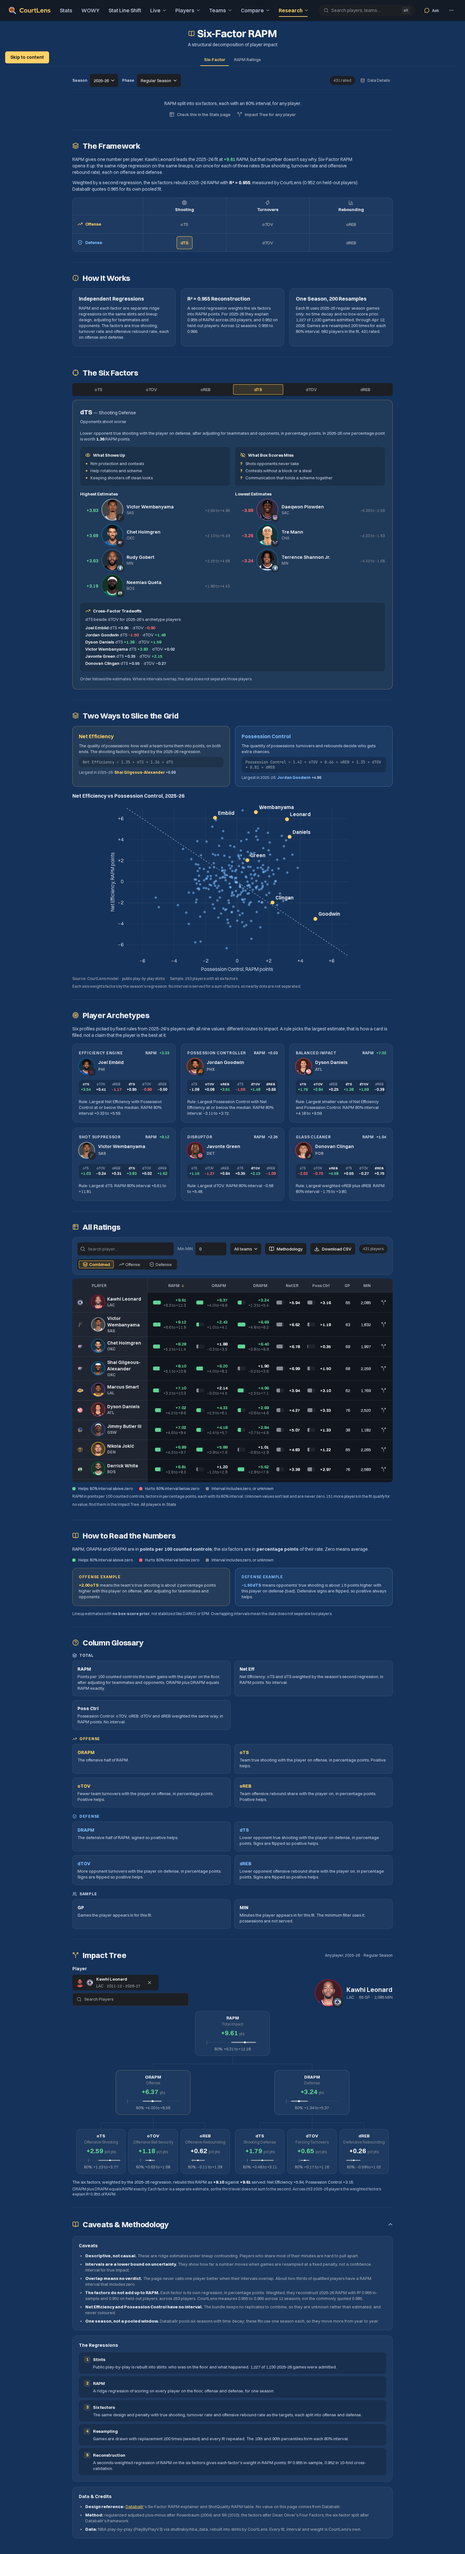
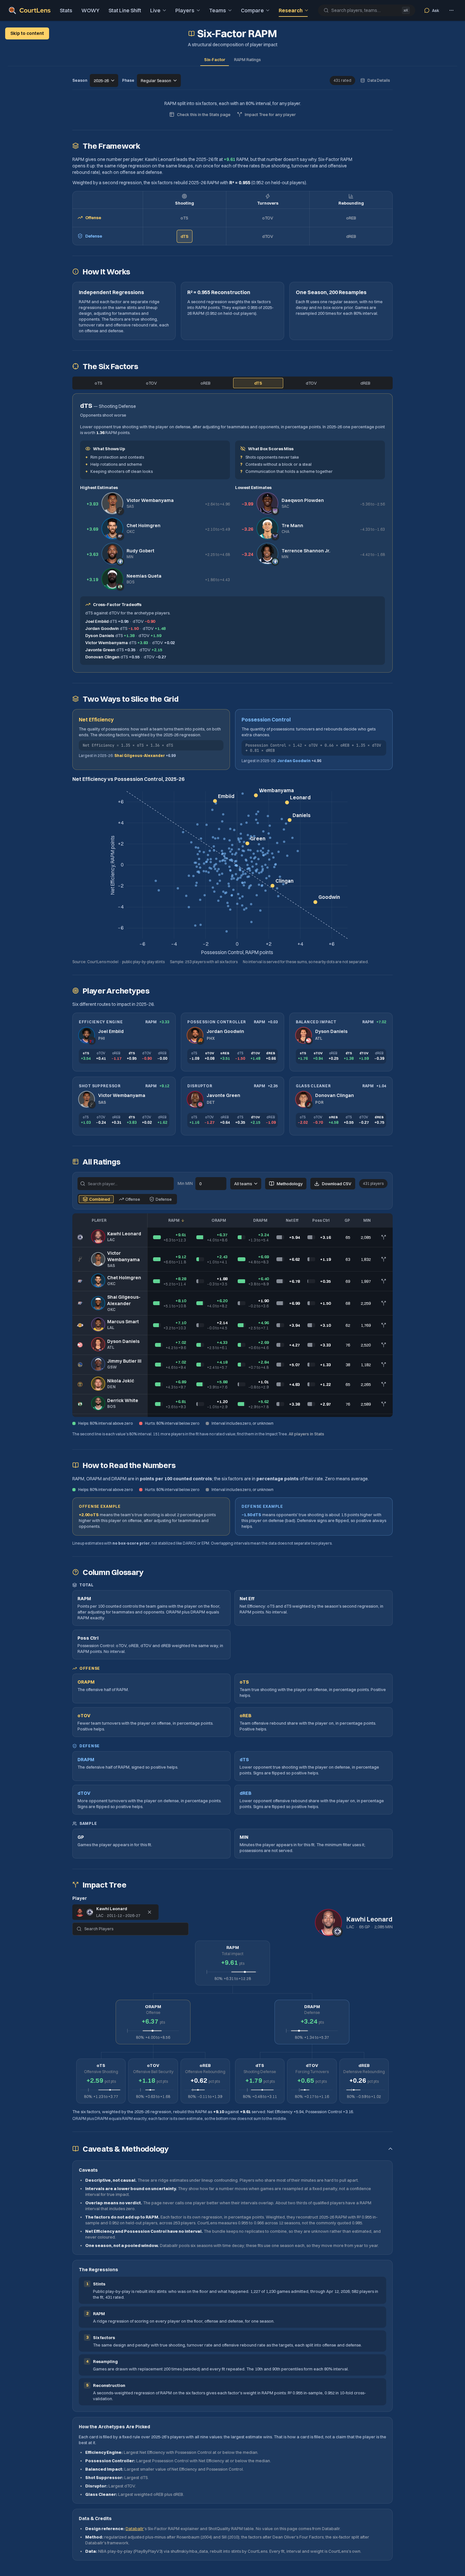
feat(design): RD00 round 5, less caption text on Six-Factor RAPM
Owner (2026-11-06): remove caption text that is non-essential or takes away
from the point, e.g. the archetype "Rule:" lines.

- Cut or shortened: archetype rule/interval lines and intro, How It Works
  counts, framework Databallr aside, overlap note, scatter note, table and
  tree footnotes, tree scope aside, ratings chart note and fact filler.
- Moved: archetype rules to "How the Archetypes Are Picked" in Caveats &
  Methodology; coverage and player counts to the Stints step.
- Kept: confounding, unknown, overlap and no-interval statements, units,
  examples, caveats, sources, credits.
- Baselines pc12-b-rapm and pc11-six-factor-phone regenerated.

Real data 87,162 + 1,170 values, 0 mismatches; full Playwright 582 passed,
0 failed. Design only: no API or data change.

diff --git a/dashboard/components/six-factor-research.tsx b/dashboard/components/six-factor-research.tsx
@@ -72,13 +72,11 @@ function HowItWorks({ page }: { page: SixFactorPage }) {
     </ResearchCard>
     <ResearchCard title={fit ? `R² = ${r2(fit.in_sample.value)} Reconstruction` : "Reconstruction"}>
       <p className="rs-card-text">{fit
-        ? <>A second regression weights the six factors into RAPM points. For {page.season} they explain {r2(fit.in_sample.value)} of RAPM across {count(fit.players)} players, and {r2(fit.cross_validated.value)} on held-out players. Across {fit.seasons} seasons: {r2(fit.range_in_sample[0])} to {r2(fit.range_in_sample[1])}.</>
+        ? <>A second regression weights the six factors into RAPM points. They explain {r2(fit.in_sample.value)} of {page.season} RAPM ({r2(fit.cross_validated.value)} on held-out players).</>
         : "The second regression is registered for regular seasons only, so the weights and R² are unknown here."}</p>
     </ResearchCard>
     <ResearchCard title={page.intervals_available ? "One Season, 200 Resamples" : "One Season, No Intervals"}>
-      <p className="rs-card-text">Each fit uses {page.season} {phaseLabel(page.phase).toLowerCase()} games only: no time decay and no box-score prior. {page.coverage ? `${count(page.coverage.admitted_games)} of ${count(page.coverage.scheduled_games)} games admitted, through ${formatDate(page.provenance.last_included_date)}. ` : `Games through ${formatDate(page.provenance.last_included_date)}. `}
-        {page.intervals_available ? "Games are resampled 200 times for each 80% interval. " : "No resampling is registered for playoff fits, so intervals are unknown. "}
-        {count(page.fit_players)} players in the fit, {count(page.players.length)} rated.</p>
+      <p className="rs-card-text">Each fit uses one {phaseLabel(page.phase).toLowerCase()}, with no time decay and no box-score prior. {page.intervals_available ? "Games are resampled 200 times for each 80% interval." : "No resampling is registered for playoff fits, so intervals are unknown."}</p>
     </ResearchCard>
   </ResearchCards>;
 }
@@ -110,12 +108,11 @@ function FactorPanel({ factor, page, byId, treeHref }: { factor: FactorKey; page
       <RankedList title="Lowest Estimates" label={`${meta.label}, three lowest estimates with 80% intervals`} items={known.slice(-3).reverse().map(item)} />
     </div>
     {archetypePlayers.length > 0 && <ResearchCallout icon="trend" title="Cross-Factor Tradeoffs">
-      <p className="rs-card-text">{meta.short} beside {pair.short} for {page.season}&apos;s archetype players:</p>
+      <p className="rs-card-text">{meta.short} against {pair.short} for the archetype players.</p>
       <ul className="sf-tradeoffs" aria-label={`${meta.short} beside ${pair.short}`}>
         {archetypePlayers.map(player => <li key={player.player_id}><strong>{player.player_name}</strong> {meta.short} <NodeValue node={player.metrics[factor]} /> · {pair.short} <NodeValue node={player.metrics[copy.pair]} /></li>)}
       </ul>
     </ResearchCallout>}
-    <p className="rs-note">Order follows the estimates. Where intervals overlap, the data does not separate those players.</p>
   </div>;
 }
 
@@ -151,7 +148,7 @@ function CompositeScatter({ players, season, highlighted }: { players: SixFactor
   const y = (value: number) => bottom - (value - low) / (high - low) * (bottom - top);
   const ticks = Array.from({ length: high - low + 1 }, (_, i) => low + i).filter(value => value % 2 === 0);
   return <ChartFrame title={`Net Efficiency vs Possession Control, ${season}`} source="CourtLens model · public play-by-play stints" sample={`${points.length} players with all six factors`}
-    note="Each axis weights factors by the season's regression. No interval is served for a sum of factors, so nearby dots are not separated.">
+    note="No interval is served for these sums, so nearby dots are not separated.">
     <ChartData fingerprint={`${season}-${points.length}`}>
       <svg className="sf-scatter chart-graphic" viewBox="0 0 640 440" role="img" aria-label={`Scatter of ${points.length} players: Possession Control across, Net Efficiency up. Labelled: ${[...highlighted.values()].join(", ")}.`}>
         {ticks.map(value => <g key={value}>
@@ -181,7 +178,6 @@ function ArchetypeCards({ page, byId, treeHref }: { page: SixFactorPage; byId: M
       aside={<span className="sf-archetype-rapm">RAPM <NodeValue node={player.metrics.rapm} /></span>}
       title={<PlayerIdentity playerId={player.player_id} name={player.player_name} team={player.team} era={seasonEra(page.season, player.team)} size="md" href={treeHref(player.player_id)} />}>
       <dl className="sf-strip">{FACTORS.map(item => <div key={item.key} data-picked={card.factors.includes(item.key) || undefined}><dt title={item.label}>{item.short}</dt><dd><NodeValue node={player.metrics[item.key]} /></dd></div>)}</dl>
-      <p className="rs-card-text">Rule: {card.rule}. RAPM 80% interval {intervalText(player.metrics.rapm)}.</p>
     </ResearchCard>;
   })}</ResearchCards>;
 }
@@ -283,14 +279,14 @@ export function ImpactTree({ tree, reconstruction }: { tree: ImpactTreeData; rec
       {rebuilt != null && tree.metrics.rapm.value != null
         ? <p>The six factors, weighted by the {tree.season} regression, rebuild this RAPM as <strong>{signed(rebuilt)}</strong> against <strong>{signed(tree.metrics.rapm.value)}</strong> served: Net Efficiency {signed(efficiency)}, Possession Control {signed(possession)}.</p>
         : <p>Rebuilding RAPM from the factors is unknown here: it needs {reconstruction ? "RAPM and all six factors for this player" : "regression weights, which are registered for regular seasons only"}.</p>}
-      <p className="rs-note">ORAPM plus DRAPM equals RAPM exactly. Each factor is a separate estimate, so the third level does not sum to the second.{reconstruction ? ` Across ${reconstruction.players} ${tree.season} players the weighted factors explain R² ${r2(reconstruction.in_sample.value)} of RAPM.` : ""}</p>
+      <p className="rs-note">ORAPM plus DRAPM equals RAPM exactly; each factor is its own estimate, so the bottom row does not sum to the middle.</p>
     </div>
   </div>;
 }
 
 function TreeSection({ page, playerId, onPlayer }: { page: SixFactorPage; playerId: string; onPlayer: (id: string | null) => void }) {
   const { data, error, loading, retry } = useFeed([playerId, page.season, page.phase], signal => getImpactTree(playerId, page.season, page.phase, signal));
-  return <ResearchSection id="impact-tree" icon="split" title="Impact Tree" aside={<span className="rs-note">Any player, {page.season} · {phaseLabel(page.phase)}</span>}>
+  return <ResearchSection id="impact-tree" icon="split" title="Impact Tree">
     <div className="sf-tree-head">
       <div className="sf-tree-picker"><EntityField label="Player" value={playerId} season={page.season} phase={page.phase} initialName={data?.player_name} onChange={value => onPlayer(value || null)} /></div>
       {data && <PlayerIdentity playerId={data.player_id} name={data.player_name} team={data.team} era={seasonEra(page.season, data.team)} size="lg" href={`/players/${data.player_id}?season=${page.season}`}
@@ -334,7 +330,7 @@ function Body({ page, factor, playerId, treeHref, statsHref, set }: { page: SixF
     <ResearchSection icon="layers" title="The Framework">
       <ResearchProse>
         <p>RAPM gives one number per player. {leader && leader.metrics.rapm.value != null ? <>{leader.player_name} leads the {page.season}{page.phase === "playoffs" ? " playoffs" : ""} fit at <NodeValue node={leader.metrics.rapm} /> RAPM, but that number doesn&apos;t say why. </> : null}Six-Factor RAPM opens it up: the same ridge regression on the same lineups, run once for each of three rates (true shooting, turnover rate and offensive rebound rate), each on offense and defense.</p>
-        <p>{fit ? <>Weighted by a second regression, the six factors rebuild {page.season} RAPM with <strong className="sf-r2">R² = {r2(fit.in_sample.value)}</strong>, measured by CourtLens ({r2(fit.cross_validated.value)} on held-out players). Databallr quotes 0.985 for its own pooled fit.</> : "No reconstruction is registered for playoff fits, so how far the factors rebuild RAPM is unknown here."}</p>
+        <p>{fit ? <>Weighted by a second regression, the six factors rebuild {page.season} RAPM with <strong className="sf-r2">R² = {r2(fit.in_sample.value)}</strong> ({r2(fit.cross_validated.value)} on held-out players).</> : "No reconstruction is registered for playoff fits, so how far the factors rebuild RAPM is unknown here."}</p>
       </ResearchProse>
       <FrameworkGrid factor={factor} onFactor={onFactor} />
     </ResearchSection>
@@ -353,7 +349,7 @@ function Body({ page, factor, playerId, treeHref, statsHref, set }: { page: SixF
     </ResearchSection>
 
     <ResearchSection icon="target" title="Player Archetypes">
-      <p className="rs-prose-line">Six profiles picked by fixed rules from {page.season}&apos;s players with all nine values: different routes to impact. A rule picks the largest estimate; that is how a card is filled, not a claim that the player is the best at it.</p>
+      <p className="rs-prose-line">Six different routes to impact in {page.season}.</p>
       <ArchetypeCards page={page} byId={byId} treeHref={treeHref} />
     </ResearchSection>
 
@@ -365,7 +361,7 @@ function Body({ page, factor, playerId, treeHref, statsHref, set }: { page: SixF
         csv={{ filename: `courtlens-six-factor-${page.season}-${page.phase}.csv`, columns: csvColumns }}
         actions={<ButtonLink size="md" icon="book" href="#methodology">Methodology</ButtonLink>}
         rowAction={p => <IconButtonLink size="sm" icon="split" label={`Open ${p.player_name}'s Impact Tree`} href={treeHref(p.player_id)} />}
-        footnote={<>RAPM in points per 100 counted controls, factors in percentage points, each with its 80% interval. Unknown values sort last and are never zero. {count(page.fit_players - players.length)} more players in the fit qualify for no value; find them in the Impact Tree. <ButtonLink size="sm" variant="text" href={statsHref}>All players in Stats</ButtonLink></>} />
+        footnote={<>The second line is each value&apos;s 80% interval. {count(page.fit_players - players.length)} more players in the fit have no rated value; find them in the Impact Tree. <ButtonLink size="sm" variant="text" href={statsHref}>All players in Stats</ButtonLink></>} />
     </ResearchSection>
 
     <ResearchSection icon="book" title="How to Read the Numbers">
@@ -384,13 +380,17 @@ function Body({ page, factor, playerId, treeHref, statsHref, set }: { page: SixF
       <MethodBlock title="Caveats"><Caveats page={page} /></MethodBlock>
       <MethodBlock title="The Regressions">
         <MethodSteps steps={[
-          { title: "Stints", text: <>Public play-by-play is rebuilt into stints: who was on the floor and what happened.{page.coverage ? ` ${count(page.coverage.admitted_games)} of ${count(page.coverage.scheduled_games)} ${page.season} games were admitted.` : ""}</> },
+          { title: "Stints", text: <>Public play-by-play is rebuilt into stints: who was on the floor and what happened. {page.coverage ? `${count(page.coverage.admitted_games)} of ${count(page.coverage.scheduled_games)} games admitted, through ${formatDate(page.provenance.last_included_date)}; ` : `Games through ${formatDate(page.provenance.last_included_date)}; `}{count(page.fit_players)} players in the fit, {count(page.players.length)} rated.</> },
           { title: "RAPM", text: "A ridge regression of scoring on every player on the floor, offense and defense, for one season." },
           { title: "Six factors", text: "The same design and penalty with true shooting, turnover rate and offensive rebound rate as the targets, each split into offense and defense." },
           { title: "Resampling", text: page.intervals_available ? "Games are drawn with replacement 200 times (seeded) and every fit repeated. The 10th and 90th percentiles form each 80% interval." : "No resampling is registered for playoff fits." },
           { title: "Reconstruction", text: fit ? `A seconds-weighted regression of RAPM on the six factors gives each factor's weight in RAPM points: R² ${r2(fit.in_sample.value)} in-sample, ${r2(fit.cross_validated.value)} in 10-fold cross-validation.` : "Registered for regular seasons only." },
         ]} />
       </MethodBlock>
+      {page.archetypes.length > 0 && <MethodBlock title="How the Archetypes Are Picked">
+        <p className="rs-card-text">Each card is filled by a fixed rule over {page.season}&apos;s players with all nine values: the largest estimate wins. That is how a card is filled, not a claim that the player is the best at it.</p>
+        <ul className="sf-caveats" aria-label="Archetype rules">{page.archetypes.map(card => <li key={card.key} data-archetype={card.key}><strong>{card.label}:</strong> {card.rule}.</li>)}</ul>
+      </MethodBlock>}
       <MethodBlock title="Data & Credits"><Credits /></MethodBlock>
     </ResearchDisclosure>
   </>;

diff --git a/dashboard/app/research/rapm/page.tsx b/dashboard/app/research/rapm/page.tsx
@@ -41,9 +41,9 @@ export default async function Page({ searchParams }: {
   ] : [];
   const facts = data?.status === "available" ? [
     { label: "Top 1Y RAPM", value: leader ? formatStatValue(leader.metrics.rapm, 2) : "—", note: leader?.player_name ?? "Unknown" },
-    { label: "Rated Players", value: data.total_players.toLocaleString("en-US"), note: "In the served impact cohort" },
-    { label: "Admitted Games", value: coverage ? `${coverage.admitted_games.toLocaleString("en-US")} / ${coverage.scheduled_games.toLocaleString("en-US")}` : "—", note: "Scheduled games in this scope" },
-    { label: "1Y Fit Through", value: fit ? formatDate(fit.last_included_date) : "—", note: fit ? fit.seasons.join(" / ") : "Unknown" },
+    { label: "Rated Players", value: data.total_players.toLocaleString("en-US") },
+    { label: "Admitted Games", value: coverage ? `${coverage.admitted_games.toLocaleString("en-US")} / ${coverage.scheduled_games.toLocaleString("en-US")}` : "—" },
+    { label: "1Y Fit Through", value: fit ? formatDate(fit.last_included_date) : "—" },
   ] : [];
   return <div className="rs-column rapm-ratings">
     <Suspense fallback={<div className="ui-filter-bar" aria-hidden="true" />}>
@@ -57,11 +57,11 @@ export default async function Page({ searchParams }: {
         {/* PC12: the headline chart leads on first load, labelled for assistive tech; open, not boxed (RD00). */}
         <section className="rapm-headline" aria-label="Headline result">
           <RankedBars title="Qualified 1Y RAPM leaders" source="CourtLens sealed IM04 lineup model" sample={`${data.total_players} served players · ${coverage?.admitted_games ?? "unknown"} admitted games`}
-            measure="points per 100 counted controls" tone="identity-b" note="Blue = 1Y RAPM; descriptive under lineup confounding. Intervals are on the Six-Factor tab."
+            measure="points per 100 counted controls" tone="identity-b"
             items={data.players.filter(p => p.metrics.rapm != null).slice(0, 5).map(p => ({ key: p.player_id, name: p.player_name, label: <PlayerIdentity playerId={p.player_id} name={p.player_name} team={teams[p.player_id] ?? null} era={seasonEra(season, teams[p.player_id])} href={`/players/${p.player_id}?${scope}`} size="sm" />, value: p.metrics.rapm!, formatted: formatStatValue(p.metrics.rapm, 2), detail: `${p.support.rapm?.games ?? "unknown"} games · ${p.support.rapm?.seconds == null ? "unknown" : Math.round(p.support.rapm.seconds / 60)} minutes` }))} />
         </section>
         <ResearchCards columns={4} label="Fit summary">
-          {facts.map(fact => <ResearchCard key={fact.label} listItem kicker={fact.label} title={fact.value}><p className="rs-card-text">{fact.note}</p></ResearchCard>)}
+          {facts.map(fact => <ResearchCard key={fact.label} listItem kicker={fact.label} title={fact.value}>{fact.note && <p className="rs-card-text">{fact.note}</p>}</ResearchCard>)}
         </ResearchCards>
       </ResearchSection>}
       <ResearchSection id="ratings" icon="table" title="All Ratings">

diff --git a/dashboard/components/rapm-ratings-table.tsx b/dashboard/components/rapm-ratings-table.tsx
@@ -44,5 +44,5 @@ export function RapmRatingsTable({ players, teams, season, phase, scope, statsHr
     minimum={{ label: "Min MIN", value: minutes, initial: 0, step: 100 }}
     csv={{ filename: `courtlens-rapm-ratings-${season}-${phase}.csv`, columns: csvColumns }}
     rowAction={row => <IconButtonLink size="sm" icon="split" label={`Open ${row.player_name}'s Impact Tree`} href={tree(row.player_id)} />}
-    footnote={<>The top 20 by qualified 1Y RAPM, in points per 100 counted controls. No interval is served here, so values are never coloured; each 1Y value&apos;s 80% interval is on the Six-Factor tab. Teams are the player&apos;s team in the season&apos;s six-factor fit. <ButtonLink size="sm" variant="text" href={statsHref}>All players in Stats</ButtonLink></>} />;
+    footnote={<>Top 20 by 1Y RAPM. Uncoloured: no interval is served here (see the Six-Factor tab). <ButtonLink size="sm" variant="text" href={statsHref}>All players in Stats</ButtonLink></>} />;
 }

diff --git a/dashboard/e2e/r02-six-factor.spec.ts b/dashboard/e2e/r02-six-factor.spec.ts
@@ -71,7 +71,10 @@ test.describe("R02 Six-Factor RAPM (design row 18)", () => {
     for (const [index, card] of served.archetypes.entries()) {
       const player = byId.get(card.player_id) as { player_name: string; metrics: Record<string, { value: number | null; low: number | null }> };
       await expect(cards.nth(index)).toContainText(player.player_name);
-      await expect(cards.nth(index)).toContainText(card.rule);
+      // RD00 round 5: the rule left the card; it is listed under Caveats & Methodology.
+      await expect(cards.nth(index)).not.toContainText("Rule:");
+      // The methodology is collapsed but stays in the DOM, so query it directly rather than by role.
+      await expect(page.locator(`[aria-label="Archetype rules"] [data-archetype="${card.key}"]`)).toContainText(card.rule);
       expect(Number(await cards.nth(index).locator(".sf-archetype-rapm .rs-value").getAttribute("data-value"))).toBe(player.metrics.rapm.value);
     }
   });

diff --git a/docs/evidence/research/design-RD00/README.md b/docs/evidence/research/design-RD00/README.md
@@ -1,4 +1,4 @@
-# RD00 — Six-Factor RAPM, rounds 2–4: centred column, Databallr shading, RAPM Ratings tab, larger photos
+# RD00 — Six-Factor RAPM, rounds 2–5: centred column, Databallr shading, RAPM Ratings tab, larger photos, less caption text
 
 Measured 2026-11-06 on branch `research` from `a1fd129`. Parents: [Research design catalog](../../../research-design-catalog.md)
 RD00, [Research progress](../../../research-progress.md), round 1 in [design-18](../design-18/README.md). Page:
@@ -138,6 +138,40 @@ face-framed crop shows head and shoulders inside the ring, as on the approved St
 | Screenshots (viewed, every photo loaded before capture) | all seven PNGs in this folder retaken |
 
 Shared effect: Learning, Patch Notes and the Research landing use the same cards, so they are shaded too.
+
+## Round 5 — caption text (owner, 2026-11-06)
+
+7. "There is a lot of caption text on this page, like 'Rule:' in this image. If it is non-essential we should remove
+   it, if it takes away from the key takeaway/point."
+
+Every caption on both tabs was listed and given one fate. The rule: keep what changes how a number is read or is a
+required honesty statement (confounding, unknowns, overlapping intervals, no interval); move method detail into the
+collapsed Caveats & Methodology (in the DOM, so nothing is lost); cut repeats.
+
+| Caption | Fate |
+| --- | --- |
+| Archetype cards: "Rule: … RAPM 80% interval …" | **Cut from cards.** Rules listed in a new methodology block, "How the Archetypes Are Picked"; the RAPM value keeps its interval colour, and the interval is in the table and tree |
+| Archetype intro (two sentences on rules and "not a claim…") | **Shortened** to "Six different routes to impact in 2025-26."; the "not a claim the player is the best" sentence moved with the rules |
+| How It Works, card 2: player count and 12-season range | **Cut**; the range is in the Caveats, the R² stays |
+| How It Works, card 3: admitted games, fit date, players in the fit, rated | **Moved** to the Stints step in The Regressions |
+| Framework: "Databallr quotes 0.985 for its own pooled fit." | **Cut** here; the Caveats already compare with 0.985 |
+| Six Factors: "Order follows the estimates. Where intervals overlap…" | **Cut**; How to Read the Numbers keeps the overlap rule |
+| Tradeoffs lead-in | **Shortened** ("oTS against oREB for the archetype players.") |
+| Scatter note | **Shortened** to the one point: no interval for these sums, so nearby dots are not separated |
+| All Ratings footnote (units, sorting) | **Shortened**: the interval line, the unrated count with the Impact Tree pointer, the Stats link. Units stay in How to Read |
+| Impact Tree aside "Any player, 2025-26 · Regular Season" | **Cut**; the filter bar shows the scope |
+| Impact Tree second note (R² repeat) | **Shortened** to "the bottom row does not sum to the middle"; the rebuild sentence stays |
+| RAPM Ratings: chart note "Blue = 1Y RAPM; descriptive…; intervals…" | **Cut**; the notice above and the intro link carry both |
+| RAPM Ratings facts: "In the served impact cohort", "Scheduled games in this scope", season under the date | **Cut**; the leader's name stays under the top value |
+| RAPM Ratings table footnote | **Shortened** to "Top 20 by 1Y RAPM. Uncoloured: no interval is served here (see the Six-Factor tab)." |
+| Kept as they are | Taglines, the confounding notice and its Why?, the How to Read units, examples and no-prior note, the Two Ways examples, the rebuild sentence, unknown and playoff notices, every caveat, chart source and sample lines, the credits |
+
+| Check | Result |
+| --- | --- |
+| Lint, typecheck, Vitest | 0 errors, 0 warnings; clean; 805 passed |
+| Specs | `r02-six-factor` 14/14 (archetype test now asserts no "Rule:" on cards and each rule in the methodology list). Baselines `pc12-b-rapm-{1440,390}` and `pc11-six-factor-phone` regenerated after viewing (captions removed) |
+| Full Playwright | **582 passed, 17 skipped, 0 failed**; no committed evidence touched |
+| Real data | Six-Factor 87,162 values (now also: no "Rule:" on any card, each rule in the methodology list; coverage and player counts read from the methodology's Stints step) and RAPM Ratings 1,170, both 0 mismatches over three scopes at 1440 and 390; 0 console errors, 0 overflow, 0 broken images. Screenshots in this folder retaken with every photo loaded and viewed |
 
 ## Credits
 

diff --git a/docs/research-design-catalog.md b/docs/research-design-catalog.md
@@ -82,7 +82,7 @@ Saved Investigations, the operation gallery (`/research/operation`) and the lega
 
 ---
 
-## RD00 Six-Factor RAPM — 👀 awaiting the owner (round 4)
+## RD00 Six-Factor RAPM — 👀 awaiting the owner (round 5)
 
 Redesigned 2026-11-06 (design-18, `4023a98`); its nine instructions are in the alignment catalog, row 18.
 It sets the pattern for every page below, so review it first: changes here are cheapest before they're
@@ -118,6 +118,12 @@ CourtLens's page at the same point, CourtLens's Six Factors panel, CourtLens's R
 6. [x] Same goes for Leaders and All Ratings: the player photos are too small, they don't even have player
    colours in the photos, and they're clipped off on the edges.
    — 44 px (Leaders) and 40 px (tables) in team colour; RAPM Ratings takes teams from the season's six-factor fit.
+
+Instructions (owner, 2026-11-06, round 5; screenshot of the Player Archetypes cards):
+7. [x] There is a lot of caption text on this page, like "Rule:" in this image. If it is non-essential we should
+   remove it, if it takes away from the key takeaway/point.
+   — Every caption on both tabs got one fate (cut, shortened, moved to the collapsed methodology, or kept as an
+   honesty statement); archetype rules now live under "How the Archetypes Are Picked". Table in the evidence.
 
 ## RD01 Combine & Wingspan — ⬜
 

diff --git a/docs/research-progress.md b/docs/research-progress.md
@@ -354,3 +354,18 @@ photos in Leaders and All Ratings. Design only.
   baselines regenerated after viewing.
 - **Not done.** The owner's review and ✅.
 
+## 2026-11-06 — RD00 round 5: less caption text
+
+[Evidence](evidence/research/design-RD00/README.md#round-5--caption-text-owner-2026-11-06). Owner: remove caption text
+that is non-essential or takes away from the point (archetype "Rule:" lines as the example). Design only.
+
+- **Cut or shortened.** Archetype rule and interval lines, the archetype intro, How It Works counts, the framework's
+  Databallr aside, the Six Factors overlap note, the scatter note, the table and tree footnotes, the tree's scope aside,
+  the ratings chart note, fact filler lines and the ratings footnote.
+- **Moved, not lost.** Rules to a new "How the Archetypes Are Picked" methodology block; coverage and player counts to
+  the Stints step.
+- **Kept.** Confounding, unknown, overlap and no-interval statements, units, examples, caveats, sources and credits.
+- **Checks.** Real data Six-Factor 87,162 and ratings 1,170 values, 0 mismatches. Lint 0/0, typecheck, Vitest 805;
+  page spec 14/14; full Playwright 582 passed, 0 failed; three baselines regenerated after viewing.
+- **Not done.** The owner's review and ✅.
+
